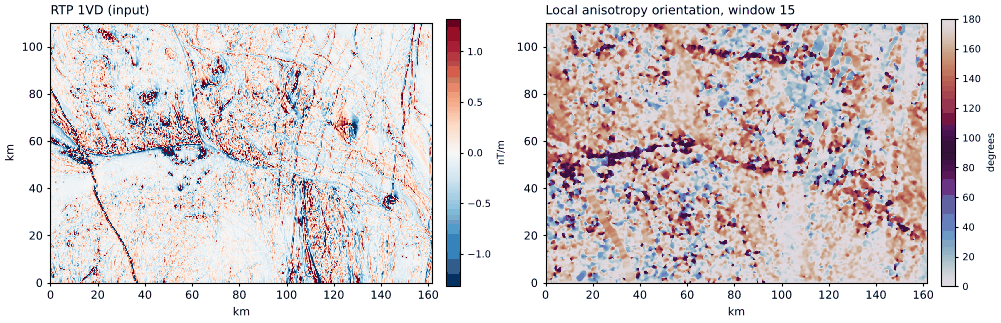
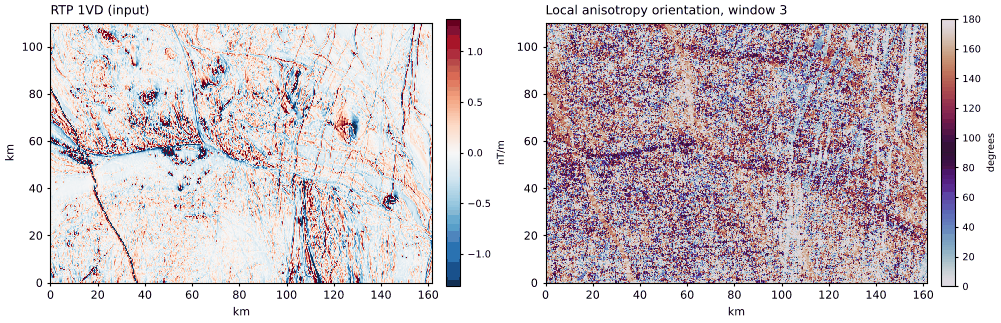
Reference: anisotropy orientation example with a window of 3
Claude-Session: https://claude.ai/code/session_01DWJqSKMzW1aNtRnoNqPBT9

diff --git a/docs/reference.md b/docs/reference.md
@@ -610,7 +610,7 @@ Tick any of the statistics below. Each is saved as its own grid. Standard deviat
 *Reference* (Min to Skewness): standard sample statistics, with no single primary reference.
 *In SGTool* (Min to Skewness): original code. The window is a circle whose diameter is the window size, no-data cells are left out, and a window needs at least 3 valid values. Skewness and kurtosis follow `scipy.stats` (biased estimates; kurtosis is the excess kurtosis, 0 for a normal distribution; a near-constant window gives no-data), calculated for many windows at once.
 
-The examples are of the RTP 1VD, with a window of 9 cells (15 for anisotropy).
+The examples are of the RTP 1VD, with a window of 9 cells (15 for the anisotropy magnitude and 3 for its orientation).
 
 **Standard deviation** (zoomed).
 
@@ -661,7 +661,7 @@ Returns two layers: `_SS_AnisoMag` (0–1 saliency; 0 = flat or isotropic, 1 = s
 
 ![Anisotropy magnitude](images/examples/anisotropy_magnitude.png)
 
-**Example: local anisotropy orientation**, window 15. The colour scale is cyclic, as 0° and 180° are the same strike.
+**Example: local anisotropy orientation**, window 3. The colour scale is cyclic, as 0° and 180° are the same strike.
 
 ![Anisotropy orientation](images/examples/anisotropy_orientation.png)
 
